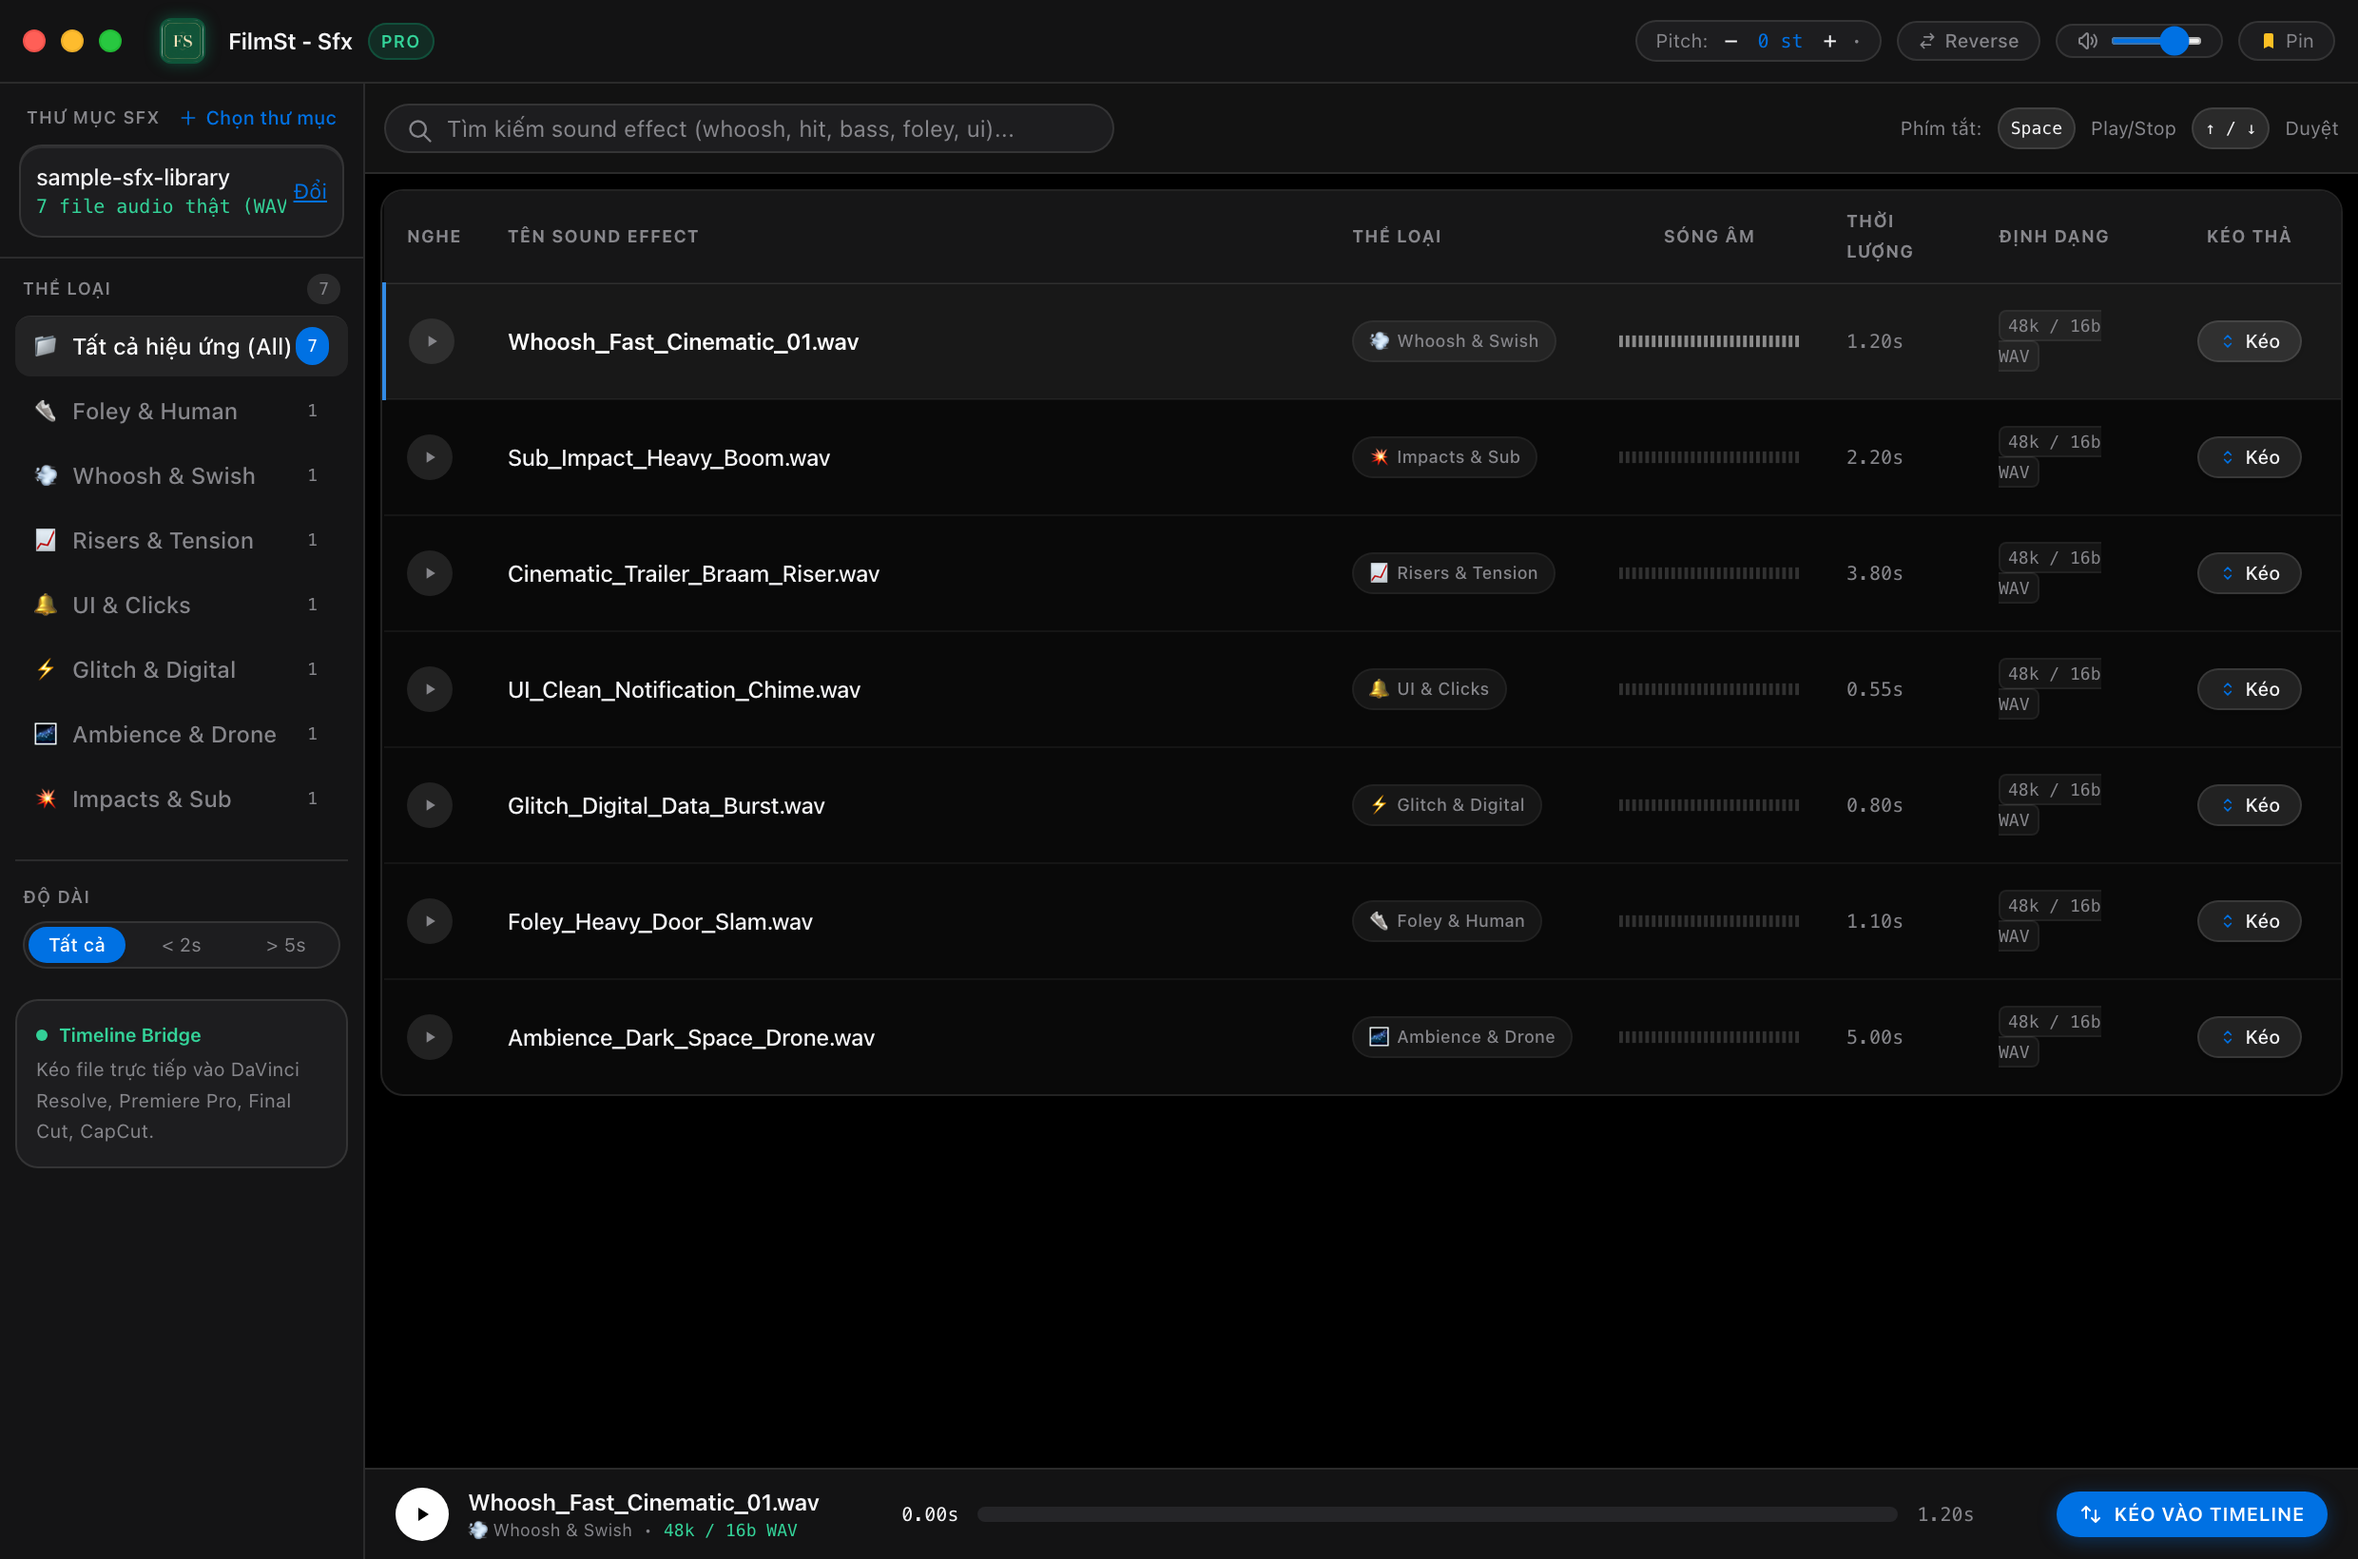
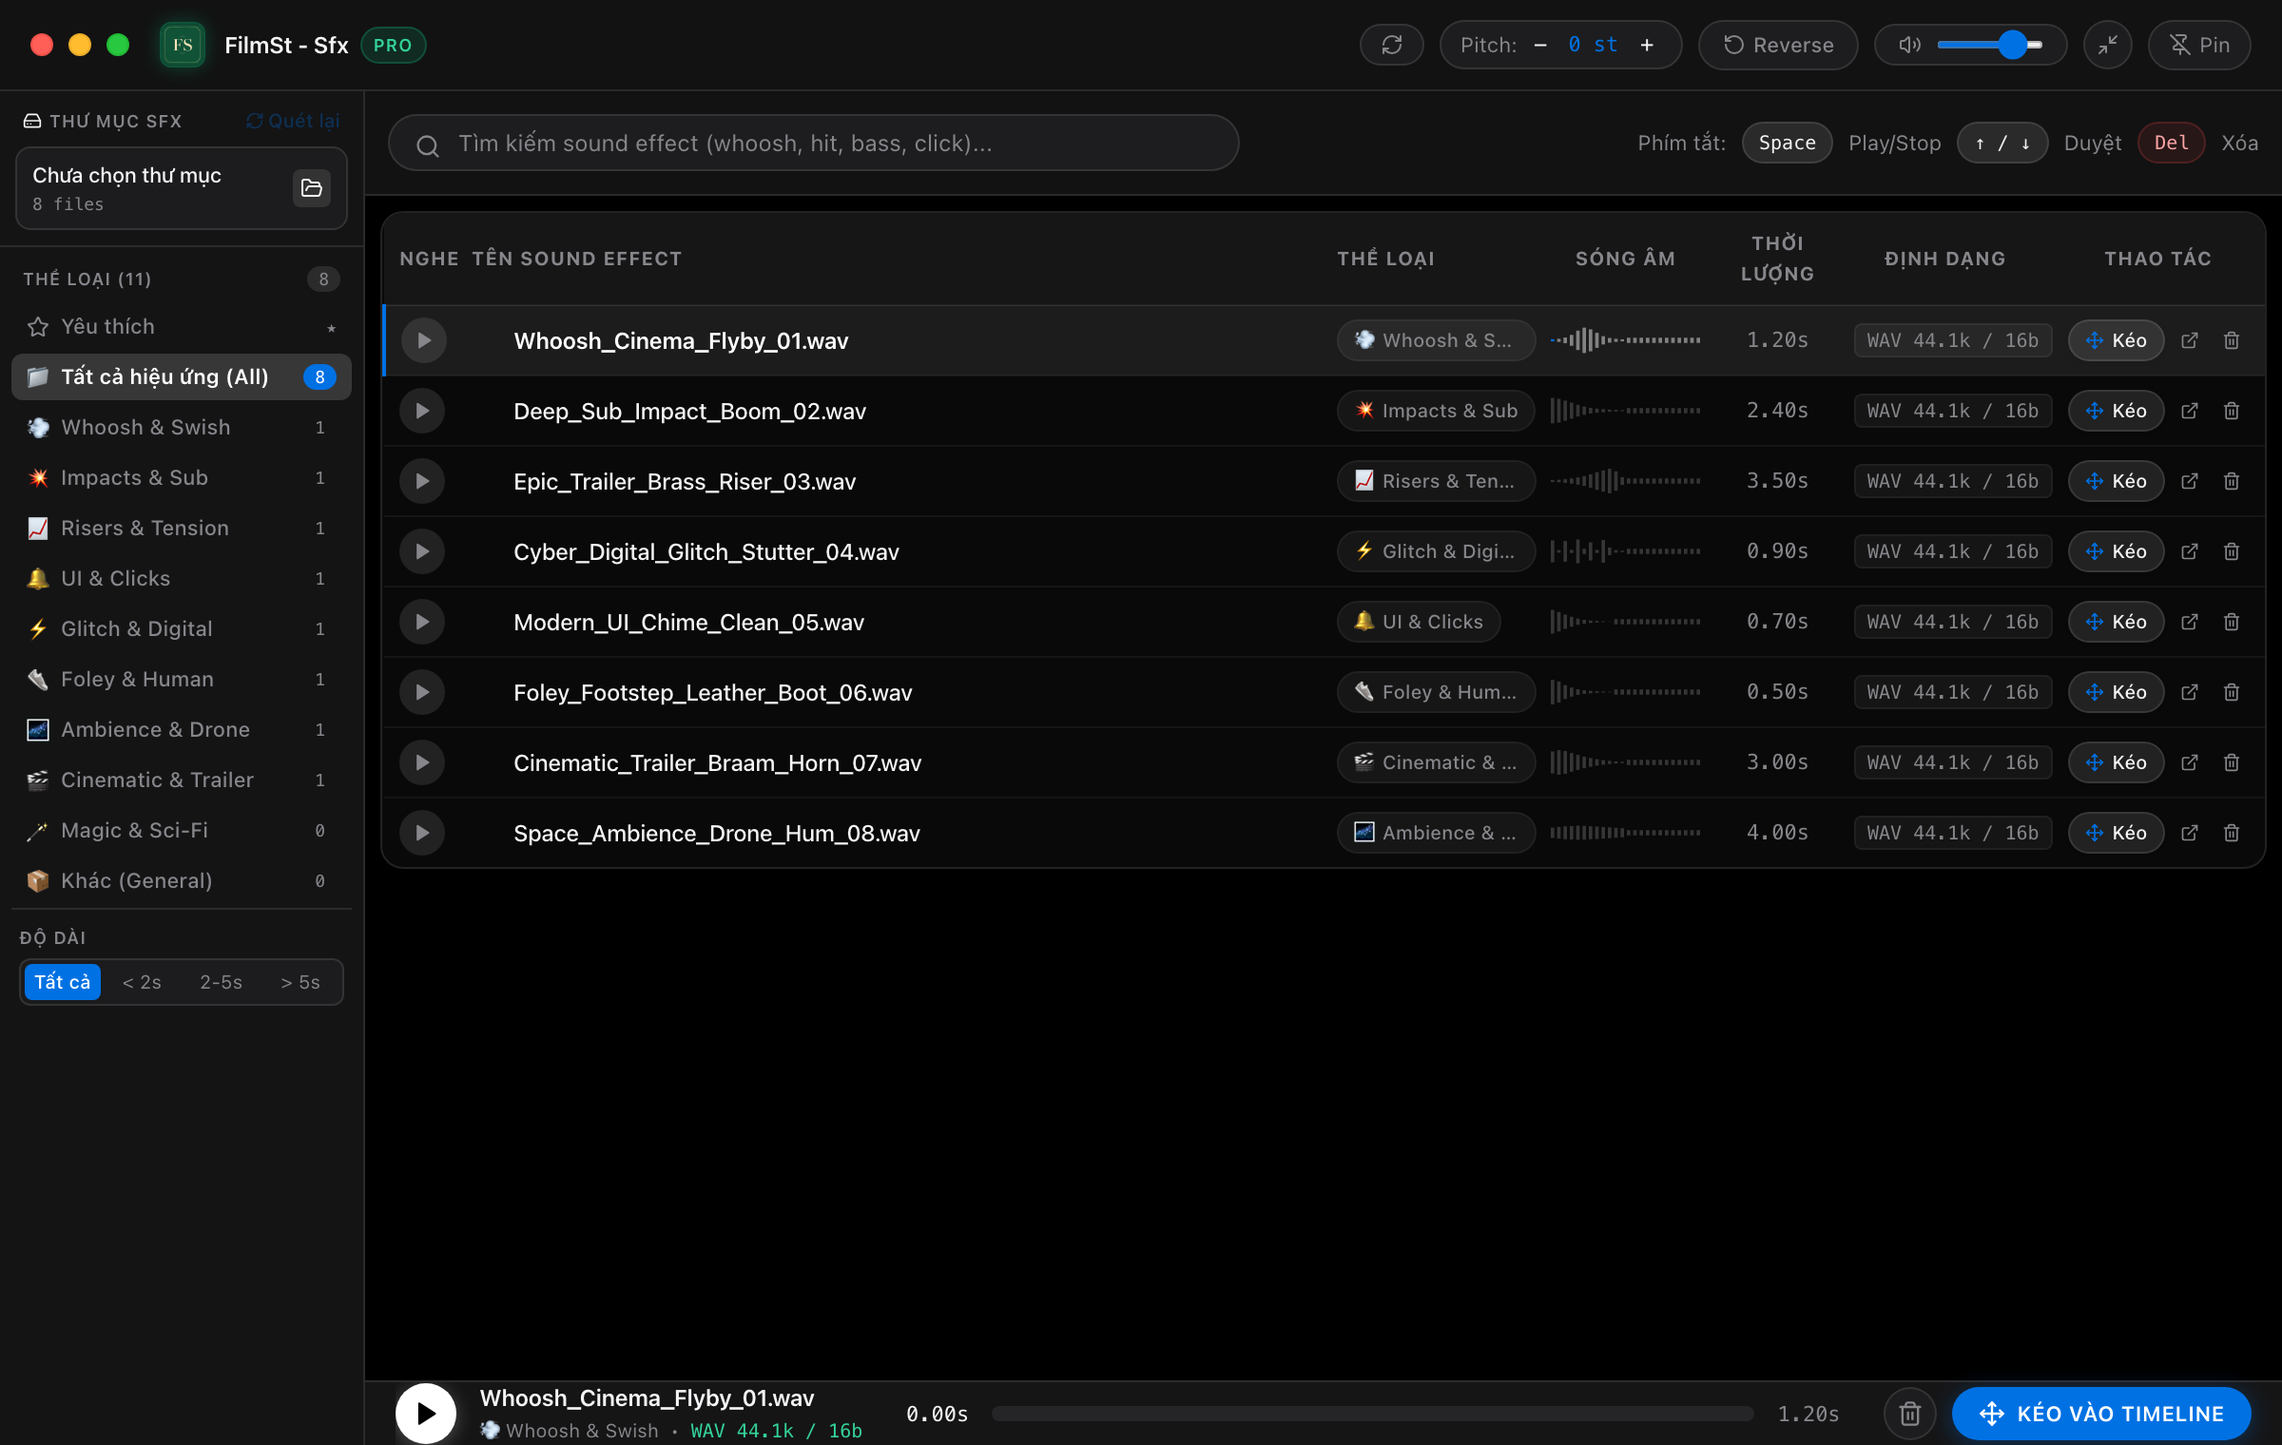
docs: update application screenshot with compacted columns and delete actions

diff --git a/src/components/SoundTable.jsx b/src/components/SoundTable.jsx
@@ -16,7 +16,7 @@ function MiniRowWaveform({ peaks, isSelected, progress }) {
 
     ctx.clearRect(0, 0, w, h);
 
-    const barCount = 28;
+    const barCount = 24;
     const barWidth = w / barCount;
 
     for (let i = 0; i < barCount; i++) {
@@ -36,7 +36,7 @@ function MiniRowWaveform({ peaks, isSelected, progress }) {
     }
   }, [peaks, isSelected, progress]);
 
-  return <canvas ref={canvasRef} className="w-24 h-5 block" />;
+  return <canvas ref={canvasRef} className="w-20 h-4 block" />;
 }
 
 export default function SoundTable({
@@ -64,16 +64,16 @@ export default function SoundTable({
   return (
     <div className="flex-1 overflow-y-auto p-2">
       <div className="rounded-xl border border-white/10 overflow-hidden bg-[#161617]/40">
-        <table className="w-full text-left text-xs border-collapse">
+        <table className="w-full text-left text-xs border-collapse table-fixed">
           <thead className="bg-[#161617] sticky top-0 z-10 border-b border-white/10 text-[10px] text-[#86868b] uppercase tracking-wider select-none">
             <tr>
-              <th className="py-2 px-3 w-10 text-center">Nghe</th>
-              <th className="py-2 px-3">Tên Sound Effect</th>
-              <th className="py-2 px-3 w-32">Thể loại</th>
-              <th className="py-2 px-3 w-28 text-center">Sóng âm</th>
-              <th className="py-2 px-3 w-20">Thời lượng</th>
-              <th className="py-2 px-3 w-24">Định dạng</th>
-              <th className="py-2 px-3 w-32 text-center">Thao tác</th>
+              <th className="py-2 px-2 w-9 text-center">Nghe</th>
+              <th className="py-2 px-2.5 min-w-[140px]">Tên Sound Effect</th>
+              <th className="py-2 px-2 w-28">Thể loại</th>
+              <th className="py-2 px-2 w-24 text-center">Sóng âm</th>
+              <th className="py-2 px-2 w-16 text-center">Thời lượng</th>
+              <th className="py-2 px-2 w-28 text-center">Định dạng</th>
+              <th className="py-2 px-2 w-28 text-center">Thao tác</th>
             </tr>
           </thead>
           <tbody className="divide-y divide-white/5">
@@ -107,13 +107,13 @@ export default function SoundTable({
                   }`}
                 >
                   {/* Play Button */}
-                  <td className="py-1.5 px-3 text-center">
+                  <td className="py-1.5 px-2 text-center w-9">
                     <button
                       onClick={(e) => {
                         e.stopPropagation();
                         onTogglePlaySound(sound);
                       }}
-                      className={`w-6 h-6 rounded-full flex items-center justify-center transition duration-150 active:scale-90 ${
+                      className={`w-6 h-6 rounded-full flex items-center justify-center transition duration-150 active:scale-90 mx-auto ${
                         isThisPlaying
                           ? 'bg-[#0071e3] text-white shadow-sm'
                           : 'bg-white/10 text-[#86868b] group-hover:text-white group-hover:bg-[#0071e3]'
@@ -128,15 +128,15 @@ export default function SoundTable({
                     </button>
                   </td>
 
-                  {/* Sound Name & Fav */}
-                  <td className="py-1.5 px-3">
-                    <div className="flex items-center gap-2">
+                  {/* Sound Name & Fav (Compacted with min-w-0 and truncate) */}
+                  <td className="py-1.5 px-2.5">
+                    <div className="flex items-center gap-1.5 min-w-0">
                       <button
                         onClick={(e) => {
                           e.stopPropagation();
                           onToggleFavorite(sound.id);
                         }}
-                        className={`p-0.5 rounded hover:bg-white/10 transition ${
+                        className={`p-0.5 rounded hover:bg-white/10 transition shrink-0 ${
                           isFav ? 'text-amber-400' : 'text-[#424245] opacity-0 group-hover:opacity-100 hover:text-white'
                         }`}
                         title={isFav ? "Bỏ yêu thích" : "Yêu thích"}
@@ -144,7 +144,7 @@ export default function SoundTable({
                         <Star className={`w-3 h-3 ${isFav ? 'fill-amber-400' : ''}`} />
                       </button>
                       <span
-                        className={`truncate max-w-md text-xs font-medium tracking-tight ${
+                        className={`truncate text-xs font-medium tracking-tight block ${
                           isSelected ? 'text-white font-semibold' : 'text-[#f5f5f7]'
                         }`}
                         title={sound.name}
@@ -155,15 +155,15 @@ export default function SoundTable({
                   </td>
 
                   {/* Category Badge */}
-                  <td className="py-1.5 px-3">
-                    <span className="inline-flex items-center gap-1 text-[10px] px-2 py-0.5 rounded-full bg-white/5 text-[#86868b] border border-white/5 font-medium">
+                  <td className="py-1.5 px-2 w-28">
+                    <span className="inline-flex items-center gap-1 text-[10px] px-2 py-0.5 rounded-full bg-white/5 text-[#86868b] border border-white/5 font-medium max-w-[105px] truncate">
                       <span>{sound.catIcon || '📁'}</span>
                       <span className="truncate">{sound.catName}</span>
                     </span>
                   </td>
 
                   {/* Mini Inline Waveform */}
-                  <td className="py-1.5 px-3 text-center">
+                  <td className="py-1.5 px-2 w-24 text-center">
                     <div className="flex justify-center">
                       <MiniRowWaveform
                         peaks={sound.peaks}
@@ -174,25 +174,25 @@ export default function SoundTable({
                   </td>
 
                   {/* Duration */}
-                  <td className="py-1.5 px-3 font-mono text-[#86868b] text-[11px]">
+                  <td className="py-1.5 px-2 w-16 text-center font-mono text-[#86868b] text-[11px] whitespace-nowrap">
                     {sound.duration ? sound.duration.toFixed(2) + 's' : '--'}
                   </td>
 
                   {/* Format */}
-                  <td className="py-1.5 px-3 font-mono text-[#86868b] text-[10px]">
+                  <td className="py-1.5 px-2 w-28 text-center font-mono text-[#86868b] text-[10px] whitespace-nowrap">
                     <span className="px-1.5 py-0.5 rounded bg-white/5 border border-white/5">
                       {sound.format}
                     </span>
                   </td>
 
                   {/* Drag Handle, Reveal in Finder & Delete */}
-                  <td className="py-1.5 px-3 text-center">
-                    <div className="inline-flex items-center gap-1">
+                  <td className="py-1.5 px-2 w-28 text-center">
+                    <div className="inline-flex items-center justify-center gap-1">
                       <div
                         draggable="true"
                         onDragStart={handleDragStart}
                         onClick={(e) => e.stopPropagation()}
-                        className="cursor-grab active:cursor-grabbing inline-flex items-center gap-1 px-2.5 py-0.5 rounded-full bg-white/10 hover:bg-[#0071e3] hover:text-white text-[#f5f5f7] border border-white/10 transition duration-150 text-[10px] font-medium active:scale-95 shadow-sm"
+                        className="cursor-grab active:cursor-grabbing inline-flex items-center gap-1 px-2 py-0.5 rounded-full bg-white/10 hover:bg-[#0071e3] hover:text-white text-[#f5f5f7] border border-white/10 transition duration-150 text-[10px] font-medium active:scale-95 shadow-sm"
                         title="Kéo thả trực tiếp vào Timeline dựng phim"
                       >
                         <Move className="w-2.5 h-2.5 text-[#0071e3] group-hover:text-white" />

diff --git a/src/components/Header.jsx b/src/components/Header.jsx
@@ -81,7 +81,14 @@ export default function Header({
         style={{ WebkitAppRegion: 'drag', paddingLeft: '84px' }}
       >
         {/* Brand & macOS traffic lights spacing */}
-        <div className="flex items-center gap-2.5" style={{ WebkitAppRegion: 'no-drag' }}>
+        <div className="flex items-center gap-2.5 relative" style={{ WebkitAppRegion: 'no-drag' }}>
+          {!window.electronAPI && (
+            <div className="absolute -left-[68px] flex items-center gap-2">
+              <div className="w-3 h-3 rounded-full bg-[#ff5f57] border border-[#e0443e]/50"></div>
+              <div className="w-3 h-3 rounded-full bg-[#febc2e] border border-[#d89e24]/50"></div>
+              <div className="w-3 h-3 rounded-full bg-[#28c840] border border-[#1aab29]/50"></div>
+            </div>
+          )}
           <div className="w-6 h-6 rounded-md overflow-hidden shadow-[0_0_10px_rgba(16,185,129,0.3)] border border-emerald-500/30 flex-shrink-0 bg-[#0d2a1c]">
             <img
               src={appIcon}
